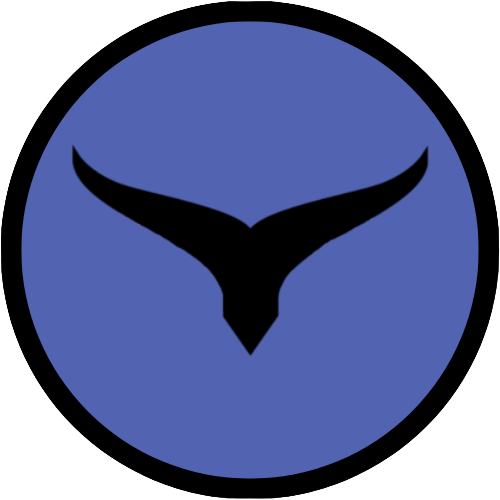
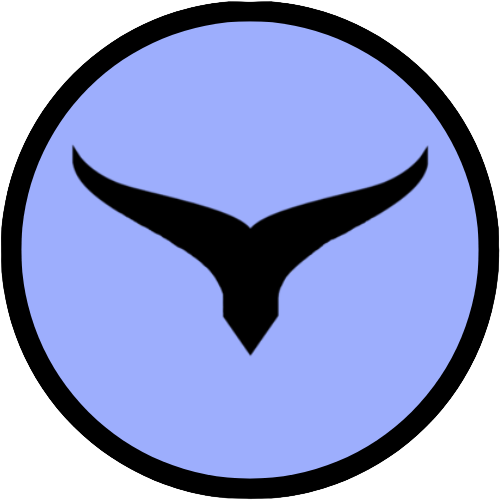
Light mode and german language corrections

diff --git a/Processing/src/game/Menu.java b/Processing/src/game/Menu.java
@@ -9,11 +9,11 @@ public class Menu extends PApplet {
 
     Eye e1, e2;
     PFont font;
-    PImage icon, photo;
+    PImage icon, photo, moonIcon, sunIcon;
     String language = "ES", disposeText, op1 = "Radar", op2, op3, op4, backText, hisText, lgText, useText;
     int add, hora = hour(), minuto = minute(), count = 0, x = 0, y = 10, moveX = 10, moveY = 10;
     int disposeX, backX, hisX, lgX, op4X, useX, tab = 0;
-    boolean on = false, menu = true, lgBoard = false;
+    boolean on = false, menu = true, lgBoard = false, darkMode = false;
     float move;
 
     @Override
@@ -28,6 +28,8 @@ public class Menu extends PApplet {
         icon = loadImage("images/icon.png");
         font = loadFont("fontThree.vlw");
         photo = loadImage("images/owl.png");
+        moonIcon = loadImage("images/moon.png");
+        sunIcon = loadImage("images/sun.png");
         surface.setIcon(icon);
         textFont(font);
     }
@@ -77,13 +79,13 @@ public class Menu extends PApplet {
             }
             case "DE" -> {
                 lgText = "Sprache";
-                disposeText = "Ausgang";
+                disposeText = "Verlassen";
                 op2 = "Option";
                 op3 = "Option";
                 op4 = "Anweisungen";
                 backText = "Zurück";
-                hisText = "Geschichte";
-                useText = "Wie benutzt man";
+                hisText = "Bewegungsprofil";
+                useText = "Gebrauchsanleitung";
             }
             case "PR" -> {
                 lgText = "Idioma";
@@ -98,20 +100,32 @@ public class Menu extends PApplet {
         }
         switch (tab) {
             case 0 -> {
-                background(50, 63, 121);
+                if (darkMode) {
+                    background(50, 63, 121);
+                } else {
+                    background(230, 230, 250);
+                }
                 options(disposeText, op1, op2, op3, op4);
                 languageSelection();
                 animation();
             }
             case 1 -> {
-                background(40, 53, 91);
+                if (darkMode) {
+                    background(45, 58, 106);
+                } else {
+                    background(230, 230, 250);
+                }
                 radarMenu(backText);
                 radarSwitch();
                 historyTable(hisText);
                 turningLines(add);
             }
             case 2 -> {
-                background(50, 63, 121);
+                if (darkMode) {
+                    background(50, 63, 121);
+                } else {
+                    background(230, 230, 250);
+                }
                 pageOne(backText);
             }
         }
@@ -124,10 +138,13 @@ public class Menu extends PApplet {
 
     // Menu Tab
     void options(String disposeText, String op1, String op2, String op3, String op4) {
-        background(50, 63, 121);
         // Title
         textSize(26);
-        fill(229);
+        if (darkMode) {
+            fill(229);
+        } else {
+            fill(50, 63, 121);
+        }
         text("Owlt", 333, 25, 110, 40);
         // Date and Hour
         textSize(18);
@@ -136,7 +153,6 @@ public class Menu extends PApplet {
                 + String.valueOf(second()), 15, 475, 250, 30);
         // Buttons
         strokeWeight(3);
-        fill(229, 229, 229);
         textSize(20);
         // Left Buttons
         rect(-1, 280, 160, 40, 0, 5, 15, 0);
@@ -144,7 +160,11 @@ public class Menu extends PApplet {
         // Right Buttons        
         rect(600, 280, 120, 40, 15, 0, 0, 5);
         rect(560, 340, 160, 40, 15, 0, 0, 5);
-        fill(0);
+        if (darkMode) {
+            fill(0);
+        } else {
+            fill(229);
+        }
         // Texts
         text(op1, 48, 293, 100, 40);
         text(op3, 626, 293, 90, 40);
@@ -157,7 +177,7 @@ public class Menu extends PApplet {
             case "Instructions" ->
                 op4X = 585;
             case "Istruzioni", "Instruções" ->
-                op4X = 595;            
+                op4X = 595;
         }
         text(op4, op4X, 353, 140, 40);
         // Exit Button
@@ -166,8 +186,8 @@ public class Menu extends PApplet {
         textSize(15);
         fill(0);
         switch (disposeText) {
-            case "Ausgang" ->
-                disposeX = 633;
+            case "Verlassen" ->
+                disposeX = 628;
             case "Uscita" ->
                 disposeX = 640;
             case "Sortie", "Saída" ->
@@ -176,6 +196,25 @@ public class Menu extends PApplet {
                 disposeX = 645;
         }
         text(disposeText, disposeX, 465, 80, 25);
+        // Dark and Light Modes
+        textSize(18);
+        fill(50, 63, 121);
+        rect(600, 30, 40, 30, 10, 0, 0, 5);
+        fill(230, 230, 250);
+        rect(641, 30, 40, 30, 0, 5, 10, 0);
+        image(moonIcon, 613, 37);
+        image(sunIcon, 652, 35);
+        if ((mouseX > 600) && (mouseX < 640) && (mouseY > 30) && (mouseY < 60)) {
+            cursor(HAND);
+            if (mousePressed) {
+                darkMode = true;
+            }
+        } else if ((mouseX > 640) && (mouseX < 680) && (mouseY > 30) && (mouseY < 60)) {
+            cursor(HAND);
+            if (mousePressed) {
+                darkMode = false;
+            }
+        }
         // Changes
         textSize(18);
         // Option 1
@@ -191,7 +230,7 @@ public class Menu extends PApplet {
         if ((mouseX > 600) && (mouseX < 720) && (mouseY > 280) && (mouseY < 320) && (mousePressed)) {
 
         }
-        // Option 4 560, 340, 160, 40
+        // Option 4
         if ((mouseX > 560) && (mouseX < 720) && (mouseY > 340) && (mouseY < 380)) {
             cursor(HAND);
             if (mousePressed) {
@@ -201,12 +240,7 @@ public class Menu extends PApplet {
         // Exit Button
         if ((mouseX > 620) && (mouseX < 720) && (mouseY > 455) && (mouseY < 485)) {
             cursor(HAND);
-            if (mousePressed) {
-                fill(252, 163, 17);
-                rect(620, 455, 80, 30, 10, 10, 10, 10);
-                fill(0);
-                textSize(15);
-                text(disposeText, 645, 465, 80, 25);
+            if (mousePressed) {                
                 exit();
             }
         }
@@ -350,7 +384,7 @@ public class Menu extends PApplet {
 
     void animation() {
         stroke(0);
-        strokeWeight(4);        
+        strokeWeight(4);
         fill(229, 229, 229);
 //        // Left Eye        
 //        arc(270, 247, 220, 260, PI + QUARTER_PI, TAU - QUARTER_PI, OPEN);
@@ -394,7 +428,11 @@ public class Menu extends PApplet {
         text(backText, backX, 30, 70, 20);
         // Radar
         strokeWeight(1);
-        stroke(190, 231, 209);
+        if (darkMode) {
+            stroke(190, 231, 209);
+        } else {
+            stroke(46, 125, 85);
+        }
 //        stroke(250, 21, 29); // Red color
         // Y-Axis and X-Axis
         line(250, 40, 250, 460);
@@ -482,23 +520,28 @@ public class Menu extends PApplet {
         }
     }
 
-    void historyTable(String regText) {
+    void historyTable(String hisText) {
         // Tira la palanca y endereza... que la Guagua va en reversa
         strokeWeight(3);
         stroke(0);
-        fill(229, 229, 229);
+        if (darkMode) {
+                    fill(229);
+                } else {
+                    fill(50, 63, 121);
+                }
         textSize(20);
         // Title
-        switch (regText) {
-            case "Geschichte" ->
-                hisX = 555;
+        switch (hisText) {
+            case "Bewegungsprofil" ->
+                hisX = 528;
             case "History", "Historial", "Histoire", "História" ->
                 hisX = 570;
             case "Storia" ->
                 hisX = 580;
         }
-        text(regText, hisX, 35, 120, 50);
+        text(hisText, hisX, 35, 160, 50);
         // Table
+        fill(229);
         rect(520, 60, 170, 400, 10, 10, 10, 10);
         for (int i = 100; i <= 430; i += 40) {
             strokeWeight(1);
@@ -562,16 +605,20 @@ public class Menu extends PApplet {
 
     // Info Tab
     void pageOne(String backText) {
-        fill(229);
+        if (darkMode) {
+            fill(229);
+        } else {
+            fill(50, 63, 121);
+        }
         // Title
         textSize(25);
         switch (useText) {
             case "Cómo usar", "How to use", "Como usar" ->
                 useX = 300;
-            case "Modalità d'uso", "Mode d'emploi" ->
+            case "Modalità d'uso", "Mode d’emploi" ->
                 useX = 280;
-            case "Wie benutzt man" ->
-                useX = 270;
+            case "Gebrauchsanleitung" ->
+                useX = 260;
         }
         text(useText, useX, 15, 240, 40);
         rect(20, 40, 680, 440, 5, 10, 5, 10);
